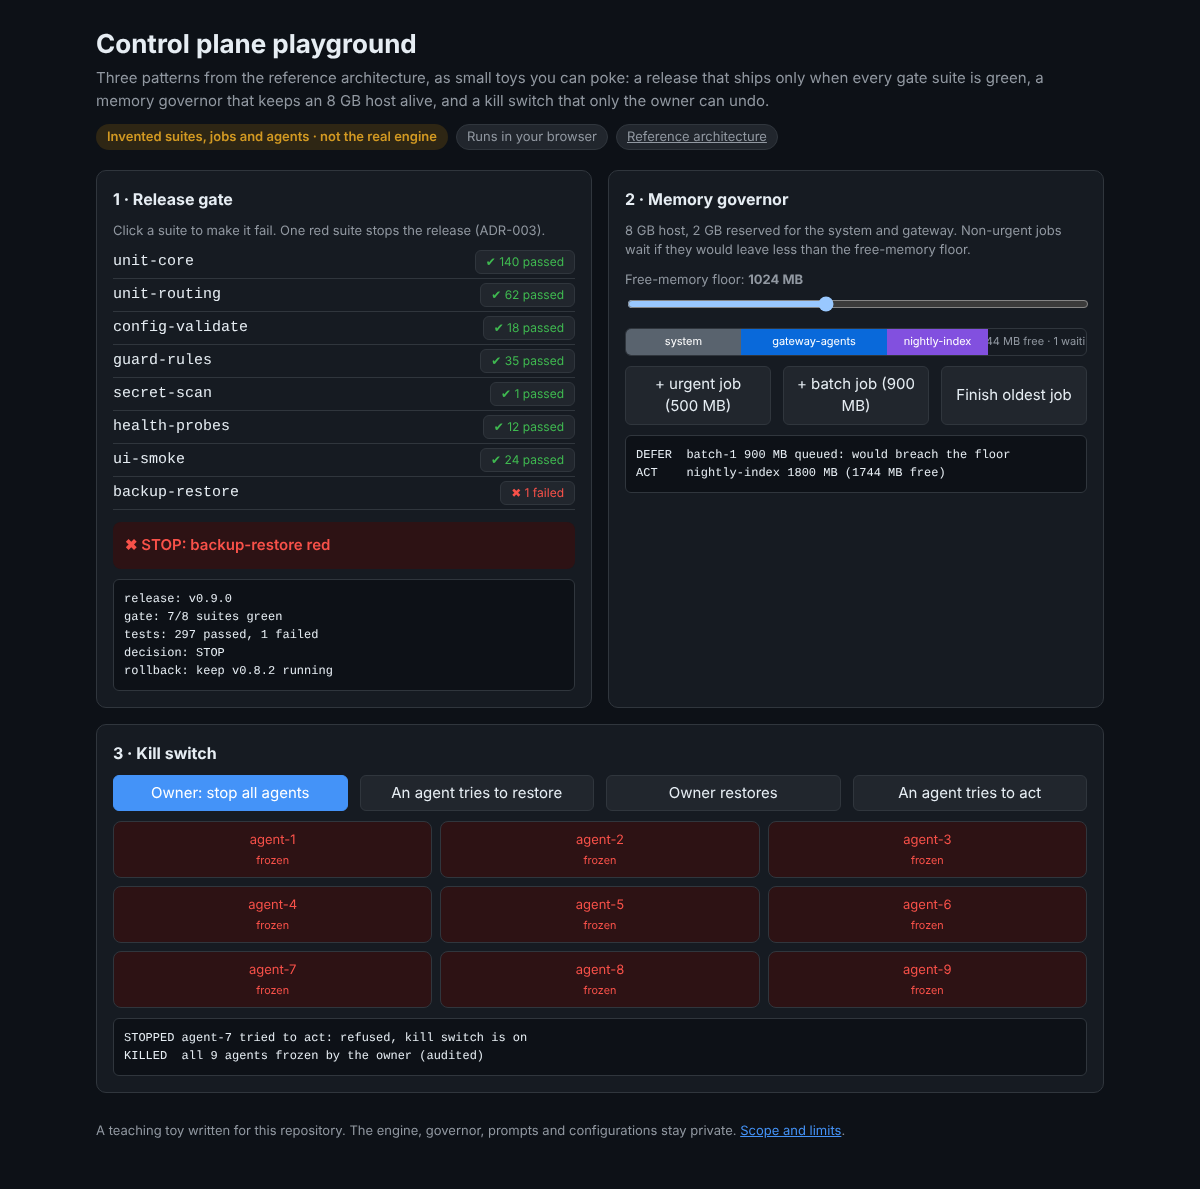
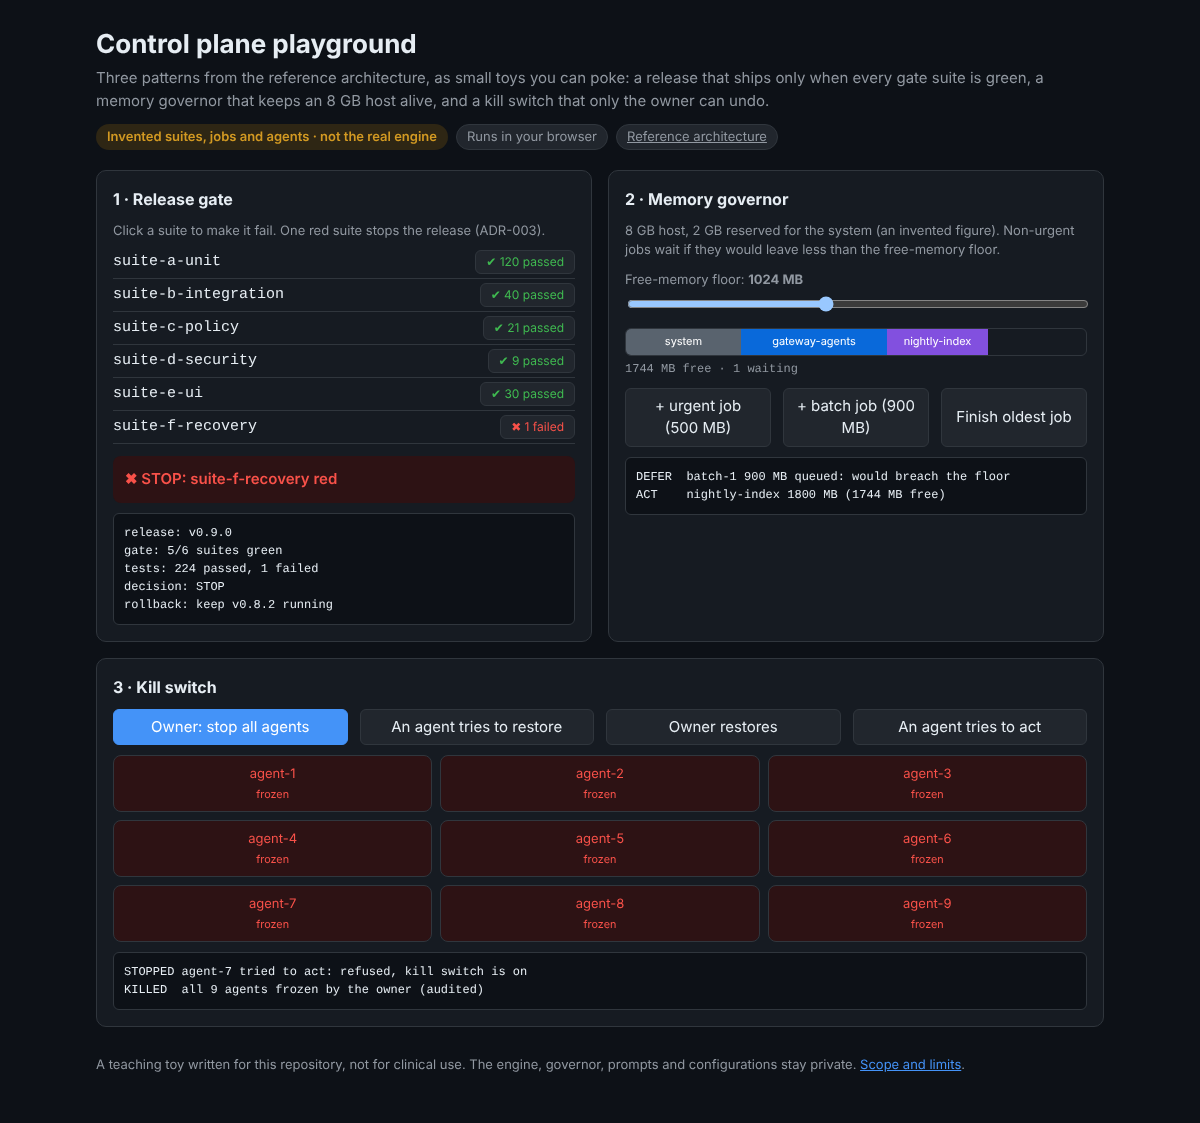
fix: address G4 review of the demo additions
- invented example values that cannot be mistaken for measured results; generic names
- terminal recording wraps long lines instead of cutting them; untrack __pycache__
- mobile layout, reduced motion, aria-live logs, safer DOM building in the calculator
- scope notes in AGENTS.md/TRUST.md; 'not for clinical use' on every demo page

Claude-Session: https://claude.ai/code/session_01Rs77ck8AWVGNB3vy8rZ9G6

Changed region(s): [[0.0617, 0.0312, 0.925, 0.9038], [0.0925, 0.935, 0.8017, 0.9662]]

diff --git a/site/index.html b/site/index.html
@@ -22,30 +22,30 @@
     <p class="dim" style="margin:0 0 6px;font-size:13px">Click a suite to make it fail. One red suite stops the release (ADR-003).</p>
     <div id="suites"></div>
     <div id="gate" class="verdict" aria-live="polite"></div>
-    <pre id="evidence" class="mono"></pre>
+    <pre id="evidence" class="mono" aria-live="polite"></pre>
   </section>
   <section class="card">
     <h2>2 · Memory governor</h2>
-    <p class="dim" style="margin:0 0 6px;font-size:13px">8 GB host, 2 GB reserved for the system and gateway. Non-urgent jobs wait if they would leave less than the free-memory floor.</p>
+    <p class="dim" style="margin:0 0 6px;font-size:13px">8 GB host, 2 GB reserved for the system (an invented figure). Non-urgent jobs wait if they would leave less than the free-memory floor.</p>
     <label for="floor">Free-memory floor: <b id="floorTxt"></b></label><input type="range" id="floor" min="256" max="2048" step="128" value="1024">
-    <div class="mem" id="mem" aria-label="memory use"></div>
+    <div class="mem" id="mem" role="img" aria-label="memory use"></div><div class="dim mono" id="memTxt" style="font-size:12px;margin-top:4px" aria-live="polite"></div>
     <div class="row" style="margin-top:10px"><button id="addUrgent">+ urgent job (500 MB)</button><button id="addBatch">+ batch job (900 MB)</button><button id="finish">Finish oldest job</button></div>
-    <pre id="glog" class="mono"></pre>
+    <pre id="glog" class="mono" aria-live="polite"></pre>
   </section>
   <section class="card wide">
     <h2>3 · Kill switch</h2>
     <div class="row"><button class="primary" id="kill">Owner: stop all agents</button><button id="restoreAgent">An agent tries to restore</button><button id="restoreOwner">Owner restores</button><button id="act">An agent tries to act</button></div>
     <div class="agents" id="agents"></div>
-    <pre id="klog" class="mono"></pre>
+    <pre id="klog" class="mono" aria-live="polite"></pre>
   </section>
 </div>
-<footer>A teaching toy written for this repository. The engine, governor, prompts and configurations stay private. <a href="https://github.com/sterilefield/empire-os-reference-architecture/blob/main/TRUST.md">Scope and limits</a>.</footer>
+<footer>A teaching toy written for this repository, not for clinical use. The engine, governor, prompts and configurations stay private. <a href="https://github.com/sterilefield/empire-os-reference-architecture/blob/main/TRUST.md">Scope and limits</a>.</footer>
 </main>
 <script>
 const $=id=>document.getElementById(id);
-const suites=[["unit-core",140],["unit-routing",62],["config-validate",18],["guard-rules",35],["secret-scan",1],["health-probes",12],["ui-smoke",24],["backup-restore",6]].map(([n,p])=>({n,p,f:0}));
+const suites=[["suite-a-unit",120],["suite-b-integration",40],["suite-c-policy",21],["suite-d-security",9],["suite-e-ui",30],["suite-f-recovery",5]].map(([n,p])=>({n,p,f:0}));
 function gate(){
-  $("suites").innerHTML=suites.map((s,i)=>`<div class="suite"><span class="mono">${s.n}</span><button data-s="${i}" class="${s.f?"bad":"ok"}" style="font-size:12px;padding:2px 10px">${s.f?"✖ "+s.f+" failed":"✔ "+s.p+" passed"}</button></div>`).join("");
+  $("suites").innerHTML=suites.map((s,i)=>`<div class="suite"><span class="mono">${s.n}</span><button data-s="${i}" aria-pressed="${s.f?"true":"false"}" aria-label="${s.n}: ${s.f?"failing, click to pass":"passing, click to fail"}" class="${s.f?"bad":"ok"}" style="font-size:12px;padding:2px 10px">${s.f?"✖ "+s.f+" failed":"✔ "+s.p+" passed"}</button></div>`).join("");
   document.querySelectorAll("[data-s]").forEach(b=>b.onclick=()=>{const s=suites[+b.dataset.s];s.f=s.f?0:1;gate()});
   const red=suites.filter(s=>s.f),ok=!red.length;
   $("gate").className="verdict "+(ok?"v-ok":"v-bad");$("gate").textContent=ok?"✔ SHIP: every suite green":"✖ STOP: "+red.map(s=>s.n).join(", ")+" red";
@@ -57,7 +57,7 @@ const free=()=>TOTAL-RES-running.reduce((a,j)=>a+j.mb,0),floor=()=>+$("floor").v
 function glog(t){$("glog").textContent=(t+"\n"+$("glog").textContent).split("\n").slice(0,8).join("\n")}
 function submit(j){const after=free()-j.mb;if((j.u&&after>=0)||(!j.u&&after>=floor())){running.push(j);glog("ACT    "+j.n+" "+j.mb+" MB ("+after+" MB free)")}else{deferred.push(j);glog("DEFER  "+j.n+" "+j.mb+" MB queued: "+(j.u?"no room":"would breach the floor"))}mem()}
 function resume(){for(const j of deferred.slice()){if(free()-j.mb>=(j.u?0:floor())){deferred.splice(deferred.indexOf(j),1);running.push(j);glog("ACT    "+j.n+" resumed from the queue")}}}
-function mem(){$("floorTxt").textContent=floor()+" MB";let h=`<div style="width:${RES/TOTAL*100}%;background:#59636e">system</div>`;running.forEach((j,i)=>h+=`<div title="${j.n}" style="width:${j.mb/TOTAL*100}%;background:${COLORS[i%COLORS.length]}">${j.n}</div>`);$("mem").innerHTML=h+`<div style="flex:1;color:var(--dim)">${free()} MB free${deferred.length?" · "+deferred.length+" waiting":""}</div>`}
+function mem(){$("floorTxt").textContent=floor()+" MB";let h=`<div style="width:${RES/TOTAL*100}%;background:#59636e">system</div>`;running.forEach((j,i)=>h+=`<div title="${j.n}" style="width:${j.mb/TOTAL*100}%;background:${COLORS[i%COLORS.length]}">${j.n}</div>`);$("mem").innerHTML=h+`<div style="flex:1"></div>`;$("memTxt").textContent=free()+" MB free"+(deferred.length?" · "+deferred.length+" waiting":"");$("mem").setAttribute("aria-label","memory use: "+free()+" MB free")}
 $("addUrgent").onclick=()=>submit({n:"urgent-"+(++k),mb:500,u:true});$("addBatch").onclick=()=>submit({n:"batch-"+(++k),mb:900,u:false});
 $("finish").onclick=()=>{const j=running.find(x=>x.n!=="gateway-agents");if(!j){glog("only the gateway is running");return}running.splice(running.indexOf(j),1);glog("done   "+j.n+": memory released");resume();mem()};
 $("floor").oninput=()=>{resume();mem()};submit({n:"nightly-index",mb:1800,u:false});

diff --git a/site/style.css b/site/style.css
@@ -6,7 +6,7 @@ a{color:var(--accent)}main{max-width:1040px;margin:0 auto;padding:24px 16px 48px
 header h1{font-size:26px;margin:0 0 4px}header p{margin:0;color:var(--dim)}
 .chips{display:flex;flex-wrap:wrap;gap:8px;margin:12px 0 0}.chip{background:var(--chip);border:1px solid var(--line);border-radius:999px;padding:2px 10px;font-size:13px;color:var(--dim)}
 .chip.warn{background:var(--warnbg);color:var(--warn);border-color:transparent;font-weight:600}
-.grid{display:grid;gap:16px;grid-template-columns:repeat(auto-fit,minmax(340px,1fr));margin-top:20px}
+.grid{display:grid;gap:16px;grid-template-columns:repeat(auto-fit,minmax(min(340px,100%),1fr));margin-top:20px}
 .card{background:var(--card);border:1px solid var(--line);border-radius:10px;padding:16px;min-width:0}.card h2{font-size:16px;margin:0 0 10px}
 .wide{grid-column:1/-1}label{display:block;font-size:13px;color:var(--dim);margin:10px 0 4px}
 select,input[type=number],input[type=range]{width:100%;font:inherit;color:var(--fg);background:var(--bg);border:1px solid var(--line);border-radius:6px;padding:6px 8px}
@@ -23,3 +23,4 @@ table{border-collapse:collapse;width:100%;font-size:13px}th,td{border-bottom:1px
 .bar{height:22px;border-radius:4px;background:var(--accent);min-width:2px;transition:width .3s}.bar.after{background:var(--ok)}
 .row{display:flex;gap:12px;flex-wrap:wrap}.row>*{flex:1 1 140px}
 .big{font-size:28px;font-weight:700}
+@media (prefers-reduced-motion:reduce){.bar{transition:none}}

diff --git a/scripts/term_svg.py b/scripts/term_svg.py
@@ -5,7 +5,7 @@ Usage:
     python3 scripts/term_svg.py OUT_PREFIX "TITLE" -- COMMAND [ARGS...]
 
 Writes OUT_PREFIX-light.svg and OUT_PREFIX-dark.svg. Lines appear one after another, then stay.
-Standard library only. The output shown is exactly what the command printed (ANSI codes stripped).
+Standard library only. The output shown is exactly what the command printed (ANSI codes stripped); long lines wrap, as in a terminal.
 """
 from __future__ import annotations
 
@@ -19,7 +19,7 @@ THEMES = {
     "light": {"bg": "#ffffff", "bar": "#eaeef2", "fg": "#1f2328", "dim": "#59636e", "ok": "#1a7f37", "bad": "#cf222e", "warn": "#9a6700", "border": "#d1d9e0"},
     "dark": {"bg": "#0d1117", "bar": "#161b22", "fg": "#e6edf3", "dim": "#9198a1", "ok": "#3fb950", "bad": "#f85149", "warn": "#d29922", "border": "#30363d"},
 }
-LINE_H, CHAR_W, PAD, BAR_H, MAX_COLS = 19, 7.8, 16, 30, 104
+LINE_H, CHAR_W, PAD, BAR_H, MAX_COLS = 19, 7.8, 16, 30, 120
 
 
 def colour(line: str, t: dict) -> str:
@@ -37,7 +37,13 @@ def colour(line: str, t: dict) -> str:
 
 def render(lines: list[str], title: str, theme: str, step: float = 0.18) -> str:
     t = THEMES[theme]
-    lines = [l[:MAX_COLS] for l in lines]
+    # Wrap long lines like a terminal does (nothing is cut off); colour follows the original line.
+    wrapped = []
+    for l in lines:
+        c = colour(l, t)
+        for k in range(0, max(len(l), 1), MAX_COLS):
+            wrapped.append((l[k:k + MAX_COLS], c))
+    lines = [w for w, _ in wrapped]
     width = int(PAD * 2 + CHAR_W * max(60, max((len(l) for l in lines), default=60)))
     height = BAR_H + PAD + LINE_H * len(lines) + PAD
     out = [
@@ -56,7 +62,7 @@ def render(lines: list[str], title: str, theme: str, step: float = 0.18) -> str:
     for i, line in enumerate(lines):
         y = BAR_H + PAD + LINE_H * (i + 0.8)
         out.append(
-            f'<text class="l" style="animation-delay:{i*step:.2f}s" x="{PAD}" y="{y:.1f}" fill="{colour(line, t)}" xml:space="preserve">{html.escape(line)}</text>'
+            f'<text class="l" style="animation-delay:{i*step:.2f}s" x="{PAD}" y="{y:.1f}" fill="{wrapped[i][1]}" xml:space="preserve">{html.escape(line)}</text>'
         )
     out.append("</svg>")
     return "\n".join(out) + "\n"

diff --git a/demo/control_plane_sim.py b/demo/control_plane_sim.py
@@ -45,10 +45,9 @@ def release_gate(version: str, previous: str, suites: list[Suite]) -> tuple[bool
     return ok, "\n".join(lines)
 
 
-DEMO_SUITES = [
-    Suite("unit-core", 140), Suite("unit-routing", 62), Suite("config-validate", 18),
-    Suite("guard-rules", 35), Suite("secret-scan", 1), Suite("health-probes", 12),
-    Suite("ui-smoke", 24), Suite("backup-restore", 6),
+DEMO_SUITES = [  # invented suite names and counts
+    Suite("suite-a-unit", 120), Suite("suite-b-integration", 40), Suite("suite-c-policy", 21),
+    Suite("suite-d-security", 9), Suite("suite-e-ui", 30), Suite("suite-f-recovery", 5),
 ]
 
 # ---------------------------------------------------------------- 2. memory governor
@@ -64,7 +63,7 @@ class Job:
 @dataclass
 class Governor:
     total_mb: int = 8192
-    reserved_mb: int = 2048  # operating system and the always-on gateway
+    reserved_mb: int = 2048  # invented: operating system and an always-on service
     floor_mb: int = 1024     # below this much free memory, non-urgent work waits
     running: list[Job] = field(default_factory=list)
     deferred: list[Job] = field(default_factory=list)
@@ -131,7 +130,7 @@ def demo_gate() -> None:
     print("1 · Release gate (invented suites)")
     ok, ev = release_gate("v0.9.0", "v0.8.2", DEMO_SUITES)
     print("   " + ev.replace("\n", "\n   "))
-    broken = DEMO_SUITES[:-1] + [Suite("backup-restore", 5, 1)]
+    broken = DEMO_SUITES[:-1] + [Suite("suite-f-recovery", 4, 1)]
     ok2, ev2 = release_gate("v0.9.1", "v0.9.0", broken)
     print("   ---")
     print("   " + ev2.replace("\n", "\n   "))
